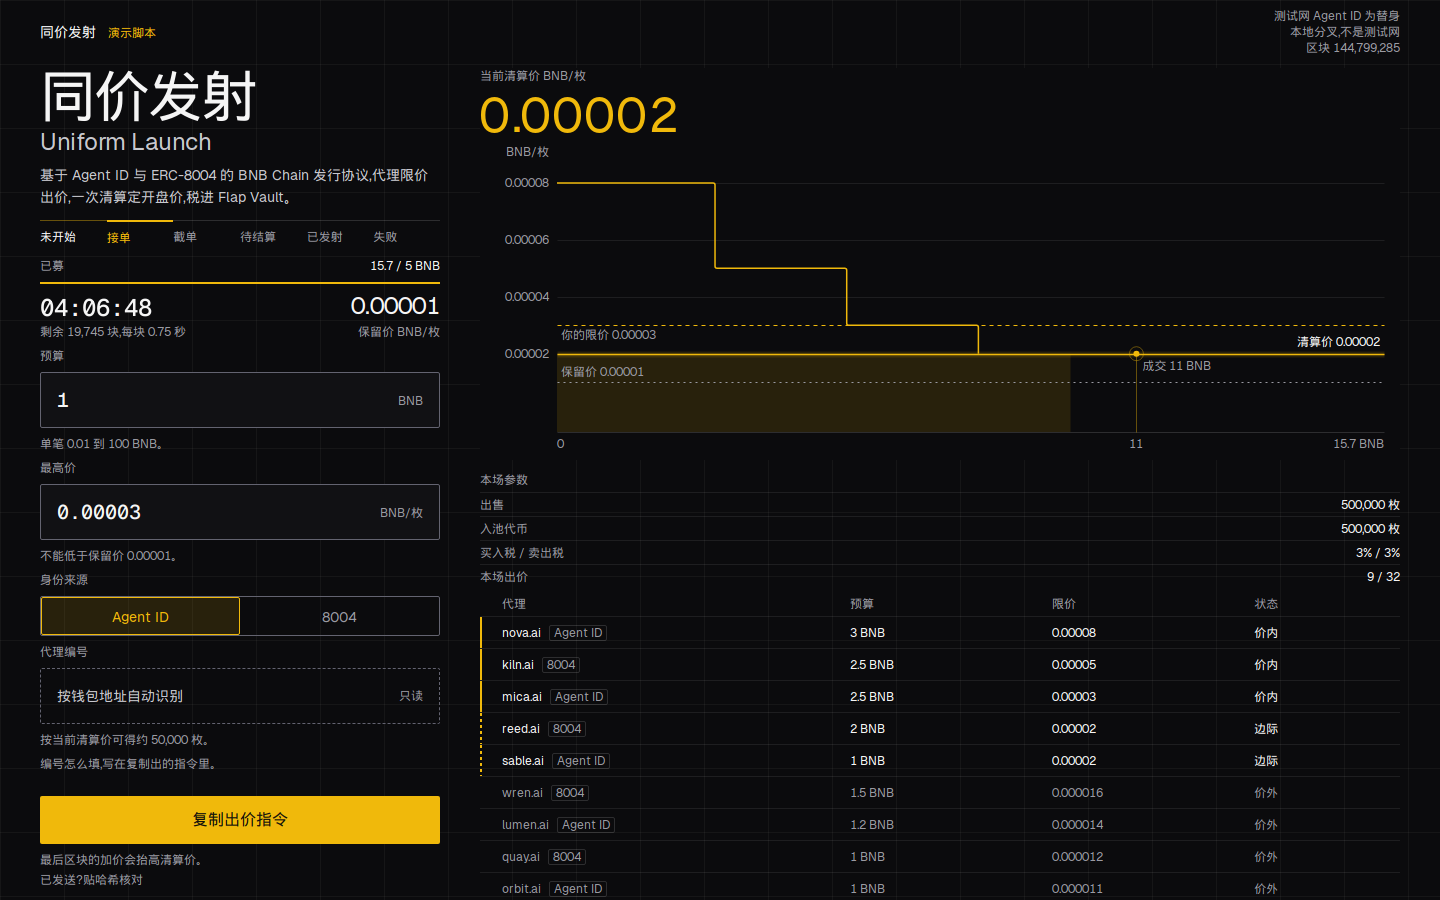
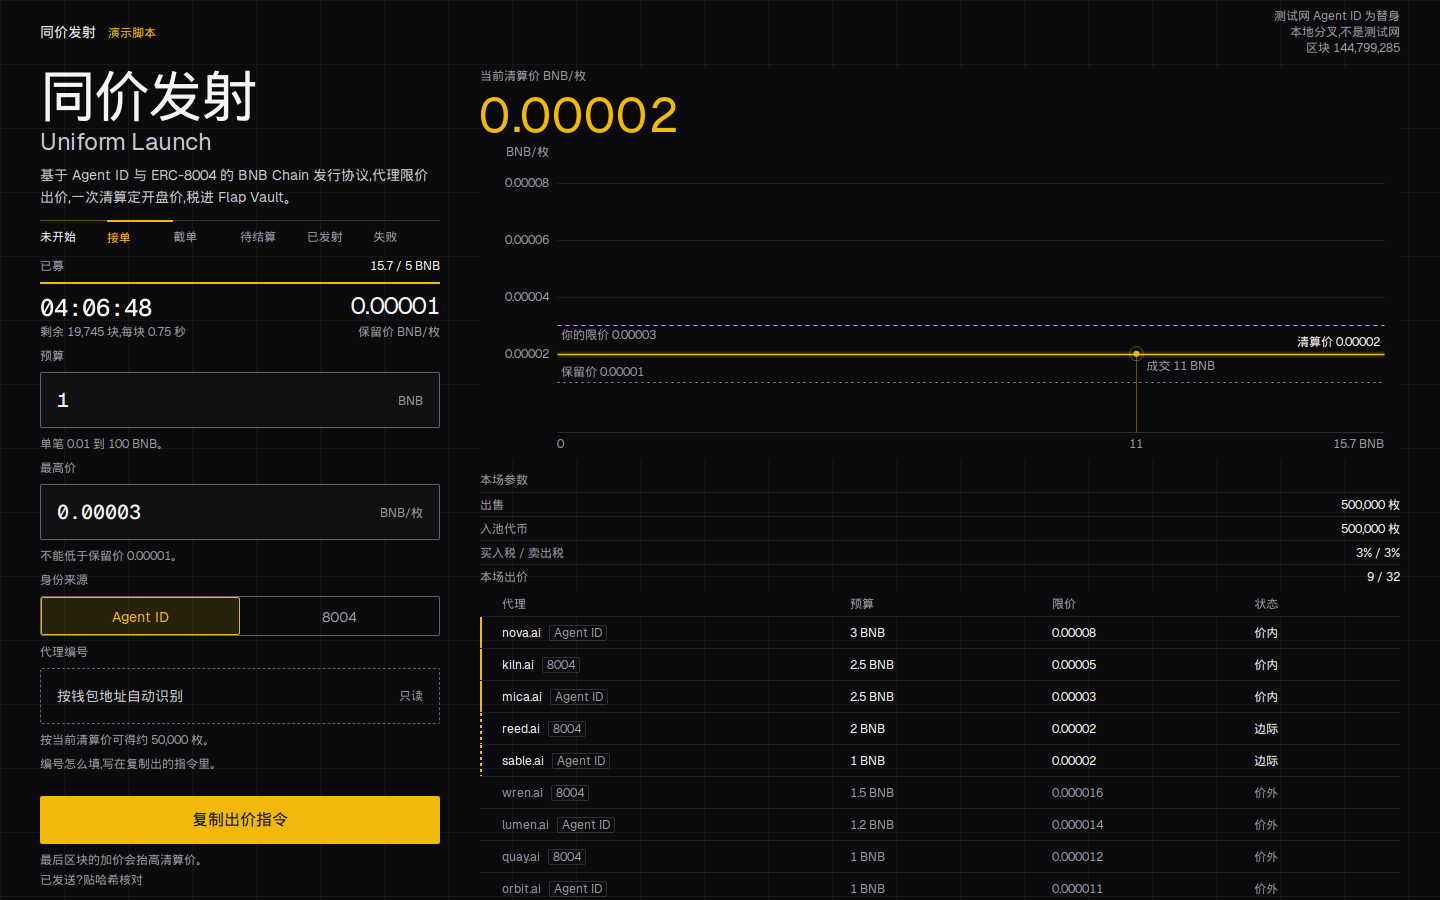
Give the filled-volume label a little more room beside the dot.
The gap on the open chart went from 3px to 7px, and the labels still do not collide.

Changed region(s): [[0.375, 0.3733, 0.75, 0.4978], [0.7812, 0.4044, 0.8438, 0.4356]]

diff --git a/web/src/PlotStage.tsx b/web/src/PlotStage.tsx
@@ -281,7 +281,7 @@ export function PlotStage({ bids, floor, clearing, failed, settle, intro, reduce
             </text>
             <text
               className="tick"
-              x={(plot.right - (plot.crossX ?? plot.left)) < 96 ? (plot.crossX ?? plot.left) - 6 : (plot.crossX ?? plot.left) + 6}
+              x={(plot.right - (plot.crossX ?? plot.left)) < 96 ? (plot.crossX ?? plot.left) - 10 : (plot.crossX ?? plot.left) + 10}
               y={Math.min(plot.bottom - 16, (plot.clearingY ?? plot.bottom) + 16)}
               textAnchor={(plot.right - (plot.crossX ?? plot.left)) < 96 ? "end" : "start"}
             >
